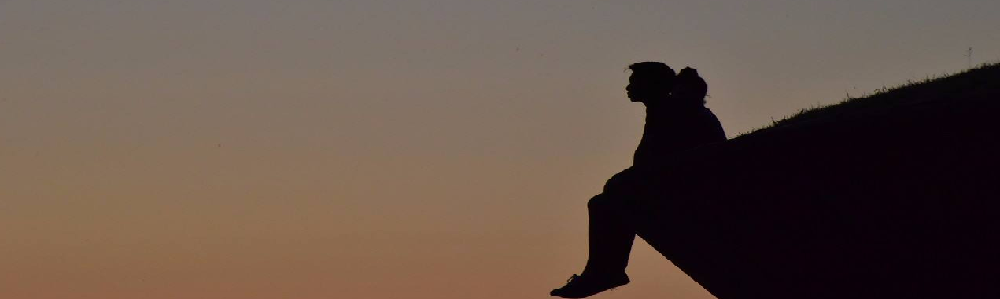
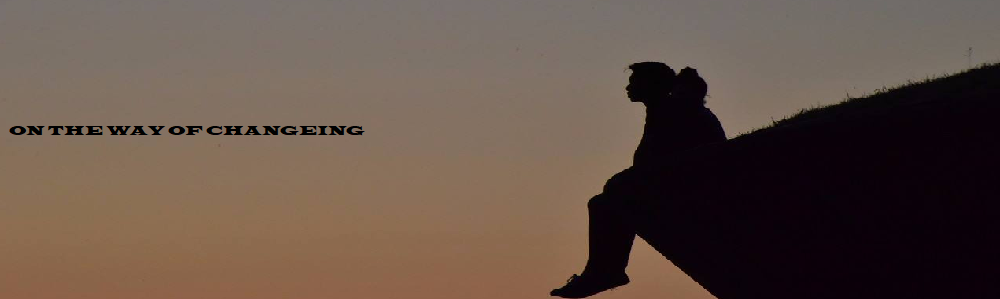
change some describe

Changed region(s): [[0.0, 0.4214, 0.372, 0.4515]]

diff --git a/index.html b/index.html
@@ -11,9 +11,6 @@
     <div class="container">
         <header>
             <div class="img-header">
-                <div class="content">
-                    <p align="left"><strong> ON THE WAY OF CHANGING</strong></p>
-                </div>
             </div>
         </header>
         <main>
